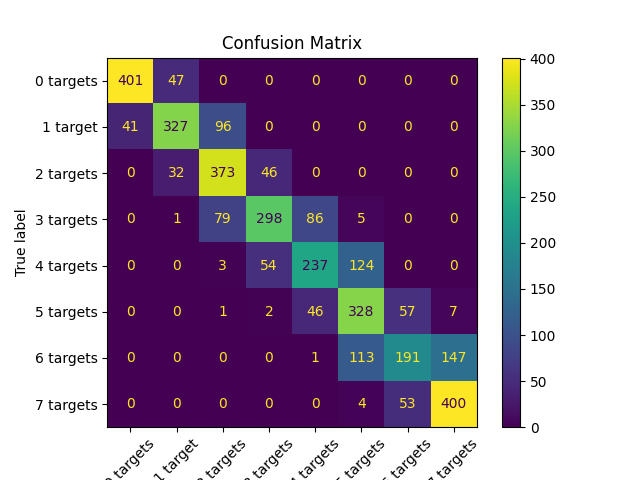
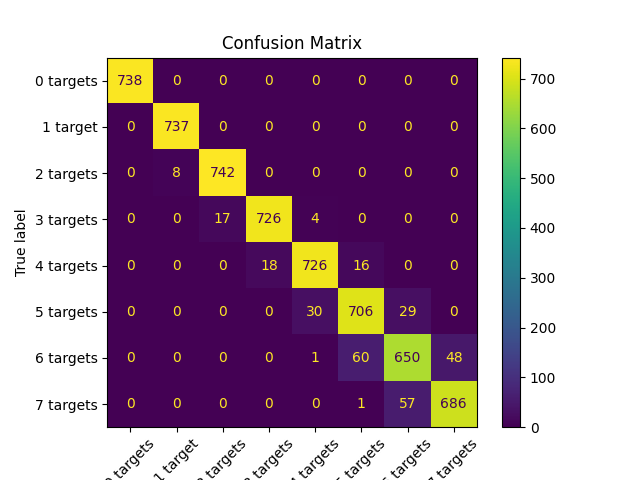
pretrained 40dB model further trained on 20dB data, it works

diff --git a/Classification.py b/Classification.py
@@ -160,7 +160,7 @@ def evaluate(model, test_loader, device):
     print(f"Test Accuracy: {acc:.2f}%")
     return acc
 
-def analyze_model(model, dataloader, device, class_names=None, max_misclassified=10, save_path="model.png"):
+def analyze_model(model, dataloader, device, class_names=None, max_misclassified=10, save_path="model.png", accruacy=0):
     dir = f"confusion_matrices/{save_path}"
     os.makedirs(dir, exist_ok=True)
     model.eval()
@@ -185,24 +185,25 @@ def analyze_model(model, dataloader, device, class_names=None, max_misclassified
     cm = confusion_matrix(all_labels, all_preds)
     disp = ConfusionMatrixDisplay(confusion_matrix=cm, display_labels=class_names)
     disp.plot(xticks_rotation=45)
-    plt.title("Confusion Matrix")
+    plt.title(f"Confusion Matrix | Accuracy: {accruacy:.2f}%")
     plt.savefig(dir + "/confusion_matrix.png")
     plt.close()
 
     # Visualize misclassified images
     for i, (img, pred, label) in enumerate(misclassified):
-        plt.imshow(img.squeeze(0), cmap="gray")  # squeeze channel dimension
+        plt.imshow(img.squeeze(0))  # squeeze channel dimension
         title = f"Misclassified {i+1}: Pred={class_names[pred] if class_names else pred} | True={class_names[label] if class_names else label}"
         plt.title(title)
         plt.axis('off')
-        plt.savefig(dir + f"/misclassified_{i+1}.png")
+        plt.savefig(dir + f"/misclassified_{i+1}.png", dpi=500)
 
 if __name__ == "__main__":
     device = torch.device("cuda" if torch.cuda.is_available() else "mps" if torch.backends.mps.is_available() else "cpu")
 
-    model_name = "20dB_RCS"
+    model_name = "20dB_RCS_pretrained_on_40dB_RCS"
+    dataset_name = "40dB_RCS"
 
-    create_dataset_parallel(8, 5000, save_path=f"data/{model_name}.pt")
+    # create_dataset_parallel(6, 5000, save_path=f"data/{model_name}.pt")
 
     model = swin_t(
         channels=1,
@@ -216,16 +217,18 @@ if __name__ == "__main__":
         relative_pos_embedding=True
     ).to(device)
 
-    train_loader, val_loader, test_loader = load_dataloaders(batch_size=32, root_dir=f"data/{model_name}.pt", random_seed=42)
+    # model.load_state_dict(torch.load(f"models/{model_name}.pt"))  # Load pre-trained model if available
 
-    criterion = torch.nn.CrossEntropyLoss()
-    optimizer = torch.optim.AdamW(model.parameters(), lr=1e-4, weight_decay=1e-2)
+    train_loader, val_loader, test_loader = load_dataloaders(batch_size=32, root_dir=f"data/{dataset_name}.pt", random_seed=42)
 
-    train(model, train_loader, val_loader, criterion, optimizer, device, num_epochs=100, save_path=f"models/{model_name}.pt")
+    # criterion = torch.nn.CrossEntropyLoss()
+    # optimizer = torch.optim.AdamW(model.parameters(), lr=1e-4, weight_decay=1e-2)
+
+    # train(model, train_loader, val_loader, criterion, optimizer, device, num_epochs=100, save_path=f"models/{model_name}.pt")
 
     model.load_state_dict(torch.load(f"models/{model_name}.pt"))
 
-    evaluate(model, test_loader, device)
+    accuracy = evaluate(model, test_loader, device)
 
-    class_names = [f"{i} target{'s' if i != 1 else ''}" for i in range(8)]  # or set your own
-    analyze_model(model, test_loader, device, class_names=class_names, max_misclassified=10, save_path=f"{model_name}.png")
+    class_names = [f"{i} target{'s' if i != 1 else ''}" for i in range(6)]  # or set your own
+    analyze_model(model, test_loader, device, class_names=class_names, max_misclassified=10, save_path=f"{model_name}/{dataset_name}", accruacy=accuracy)

diff --git a/radar.py b/radar.py
@@ -86,7 +86,7 @@ class PulsedRadar:
         self.device=device
 
         self.pulse_compression_gain = self.tau * self.BW * self.n_pulses # Pulse compression gain
-        self.Pspec = 10**(40 / 10)  # Reference power (linear scale)
+        self.Pspec = 10**(20 / 10)  # Reference power (linear scale)
         self.Rspec = 750 # Reference range (m)
         
         # Time steps for one pulse
@@ -112,7 +112,7 @@ class PulsedRadar:
             # Calculate mean target range for scaling (or use first pulse)
             # Rtarget = r[0]
             # Power = (self.Rspec**4 / (np.array(Rtarget)**4)) * self.Pspec / self.pulse_compression_gain * RCS_target/self.RCS_ref
-            Power = self.Pspec / self.pulse_compression_gain * RCS_target
+            Power = self.Pspec / self.pulse_compression_gain #* RCS_target
             for pulse_idx in range(self.n_pulses):
                 t_pulse = pulse_idx * self.PRI
 
@@ -130,7 +130,6 @@ class PulsedRadar:
         noise = torch.exp(1j * 2 * np.pi * torch.rand(RX_signals.size(), device=self.device)) * self.noise * torch.normal(0, 1, RX_signals.size(), device=self.device)
 
         return RX_signals + noise
-
 
     def range_doppler(self, range_list, velocity_list):
         num_samples = int(self.fs * self.tau)
@@ -322,8 +321,9 @@ def create_dataset_parallel(n_targets, bursts_per_class, save_path="data/preproc
     torch.save((all_data, all_labels), save_path)
     print(f"✅ Dataset saved to: {save_path}")
 
-
-
 if __name__ == "__main__":
-    create_dataset_parallel(5, 500, save_path="data/test.pt")
+    # create_dataset_parallel(5, 500, save_path="data/test.pt")
     # create_dataset(5, 500, save_path="data/test.pt")
+    burst = generate_single_burst("cpu",num_targets=10)
+    plot_doppler(PulsedRadar(), burst[0].squeeze(0).numpy())
+    print("Done")
